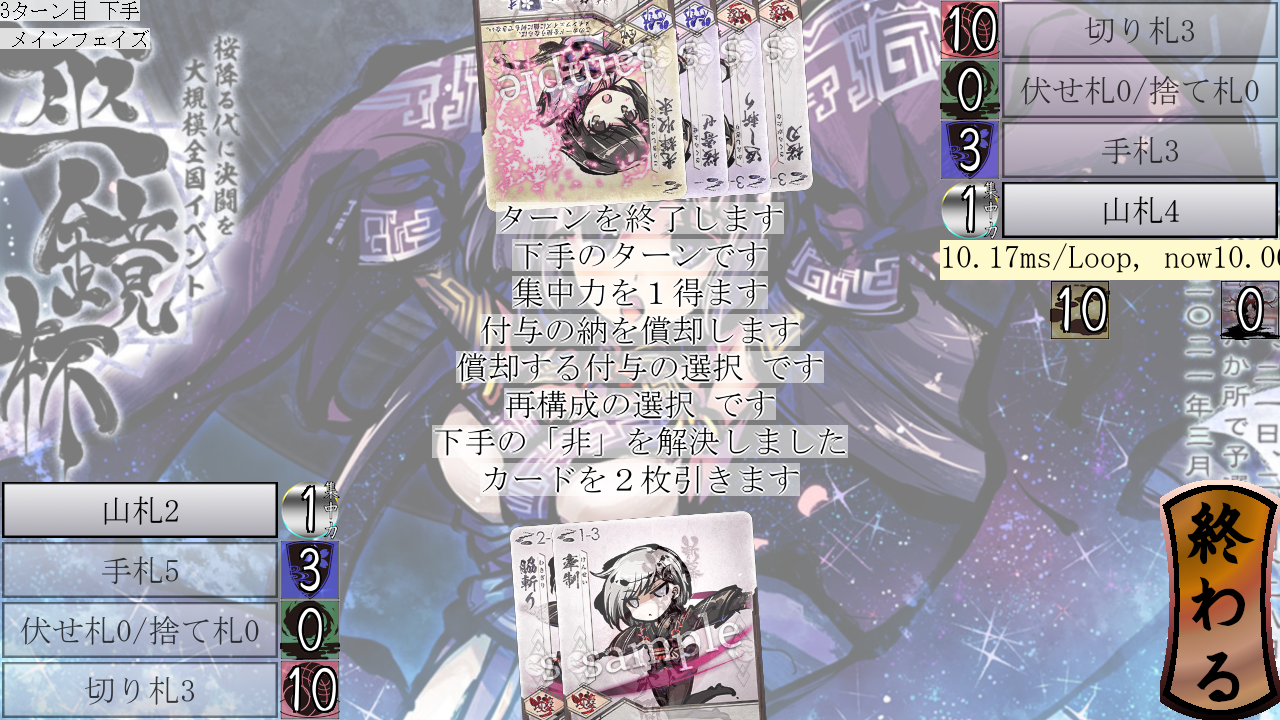
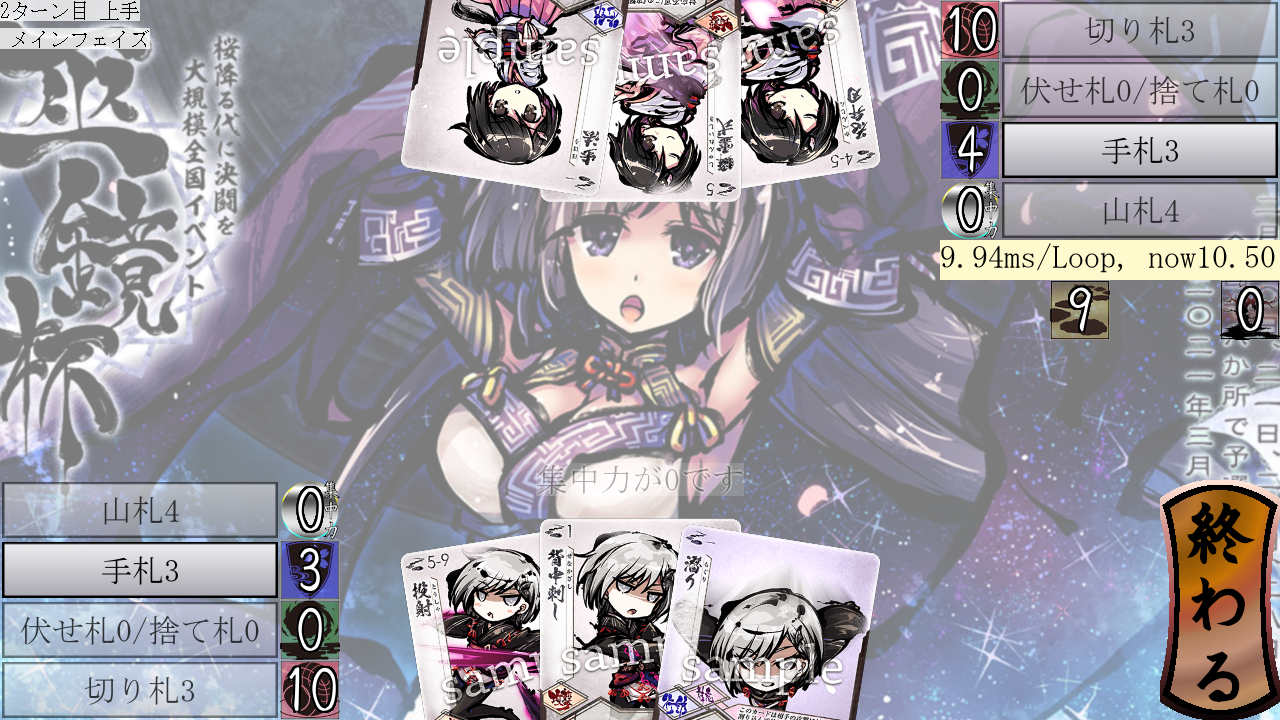
J397:集中力で基本動作可能に

Changed region(s): [[0.3125, 0.0, 0.6875, 1.0], [0.7188, 0.1528, 1.0, 0.4583], [0.0, 0.6722, 0.25, 0.8556]]

diff --git a/mod/ol/others_basic_action.py b/mod/ol/others_basic_action.py
@@ -1,7 +1,8 @@
 #                 20                  40                  60                 79
 from typing import Any, Callable
 
-from mod.const import TC_HUSEHUDA, TC_SUTEHUDA, OBAL_KIHONDOUSA, OBAL_SYUUTYUU, OBAL_USE_CARD, USAGE_USED, enforce
+from mod.const import TC_HUSEHUDA, TC_SUTEHUDA, OBAL_KIHONDOUSA, OBAL_SYUUTYUU,\
+    OBAL_USE_CARD, USAGE_USED, enforce, UC_SYUUTYUU, UC_ZYOGAI
 from mod.delivery import Delivery
 from mod.moderator import moderator
 from mod.huda import Huda
@@ -32,6 +33,7 @@ def _mouseup(huda: Huda) -> None:
 def _moderate(mcl: MonoChoiceLayer, stat: PopStat) -> None:
     mcl.delivery.m_params(mcl.hoyuusya).played_standard = True
     if mcl.mode == OBAL_KIHONDOUSA:
+        print(f"mcl.modeは{mcl.mode}です")
         mcl.delivery.send_huda_to_ryouiki(huda=mcl.source_huda, is_mine=True, taba_code=TC_HUSEHUDA)
     elif mcl.mode == OBAL_USE_CARD:
         source_huda = enforce(mcl.source_huda, Huda)
@@ -41,6 +43,10 @@ def _moderate(mcl: MonoChoiceLayer, stat: PopStat) -> None:
             source_huda.usage = USAGE_USED
         else:
             mcl.delivery.send_huda_to_ryouiki(huda=mcl.source_huda, is_mine=True, taba_code=TC_SUTEHUDA)
+    elif mcl.mode == OBAL_SYUUTYUU:
+        mcl.delivery.send_ouka_to_ryouiki(
+            hoyuusya=mcl.hoyuusya, from_mine=True, from_code=UC_SYUUTYUU,
+            to_mine=False, to_code=UC_ZYOGAI)
     moderator.pop()
 
 def _others_basic_action_layer(

diff --git a/mod/mkt/syuutyuu.py b/mod/mkt/syuutyuu.py
@@ -4,7 +4,7 @@ from pygame.math import Vector2
 
 from mod.const import screen, IMG_SYUUTYUU_AREA, ACTION_CIRCLE_NEUTRAL,\
     ACTION_CIRCLE_YADOSI, ACTION_CIRCLE_BASIC, ACTION_CIRCLE_ZENSIN,\
-    pass_func, BRIGHT
+    pass_func, BRIGHT, OBAL_SYUUTYUU
 from mod.classes import Callable, Card, controller, popup_message
 from mod.mkt.utuwa import Utuwa
 from mod.kihondousa import zensin_card, ridatu_card, koutai_card, matoi_card, yadosi_card
@@ -31,9 +31,9 @@ def _active(utuwa: Utuwa) -> None:
             int((diff_coord.angle_to([0, 0])+225)/90), ACTION_CIRCLE_ZENSIN)
         screen.blit(source=source, dest=controller.hold_coord-[250, 250])
 
-_yadosi = obal_func(cards=[yadosi_card])
-_basic = obal_func(cards=[zensin_card, ridatu_card, koutai_card, matoi_card, yadosi_card], text="その他基本動作です")
-_zensin = obal_func(cards=[zensin_card])
+_yadosi = obal_func(cards=[yadosi_card], mode=OBAL_SYUUTYUU)
+_basic = obal_func(cards=[zensin_card, ridatu_card, koutai_card, matoi_card, yadosi_card], text="その他基本動作です", mode=OBAL_SYUUTYUU)
+_zensin = obal_func(cards=[zensin_card], mode=OBAL_SYUUTYUU)
 # _use_card: Callable[[Card], Callable[[Huda], None]] = lambda card: obal_func(cards=[card], text=f"手札から「{card.name}」カードを使います", mode=OBAL_USE_CARD)
 
 def _no_card(utuwa: Utuwa) -> None:
